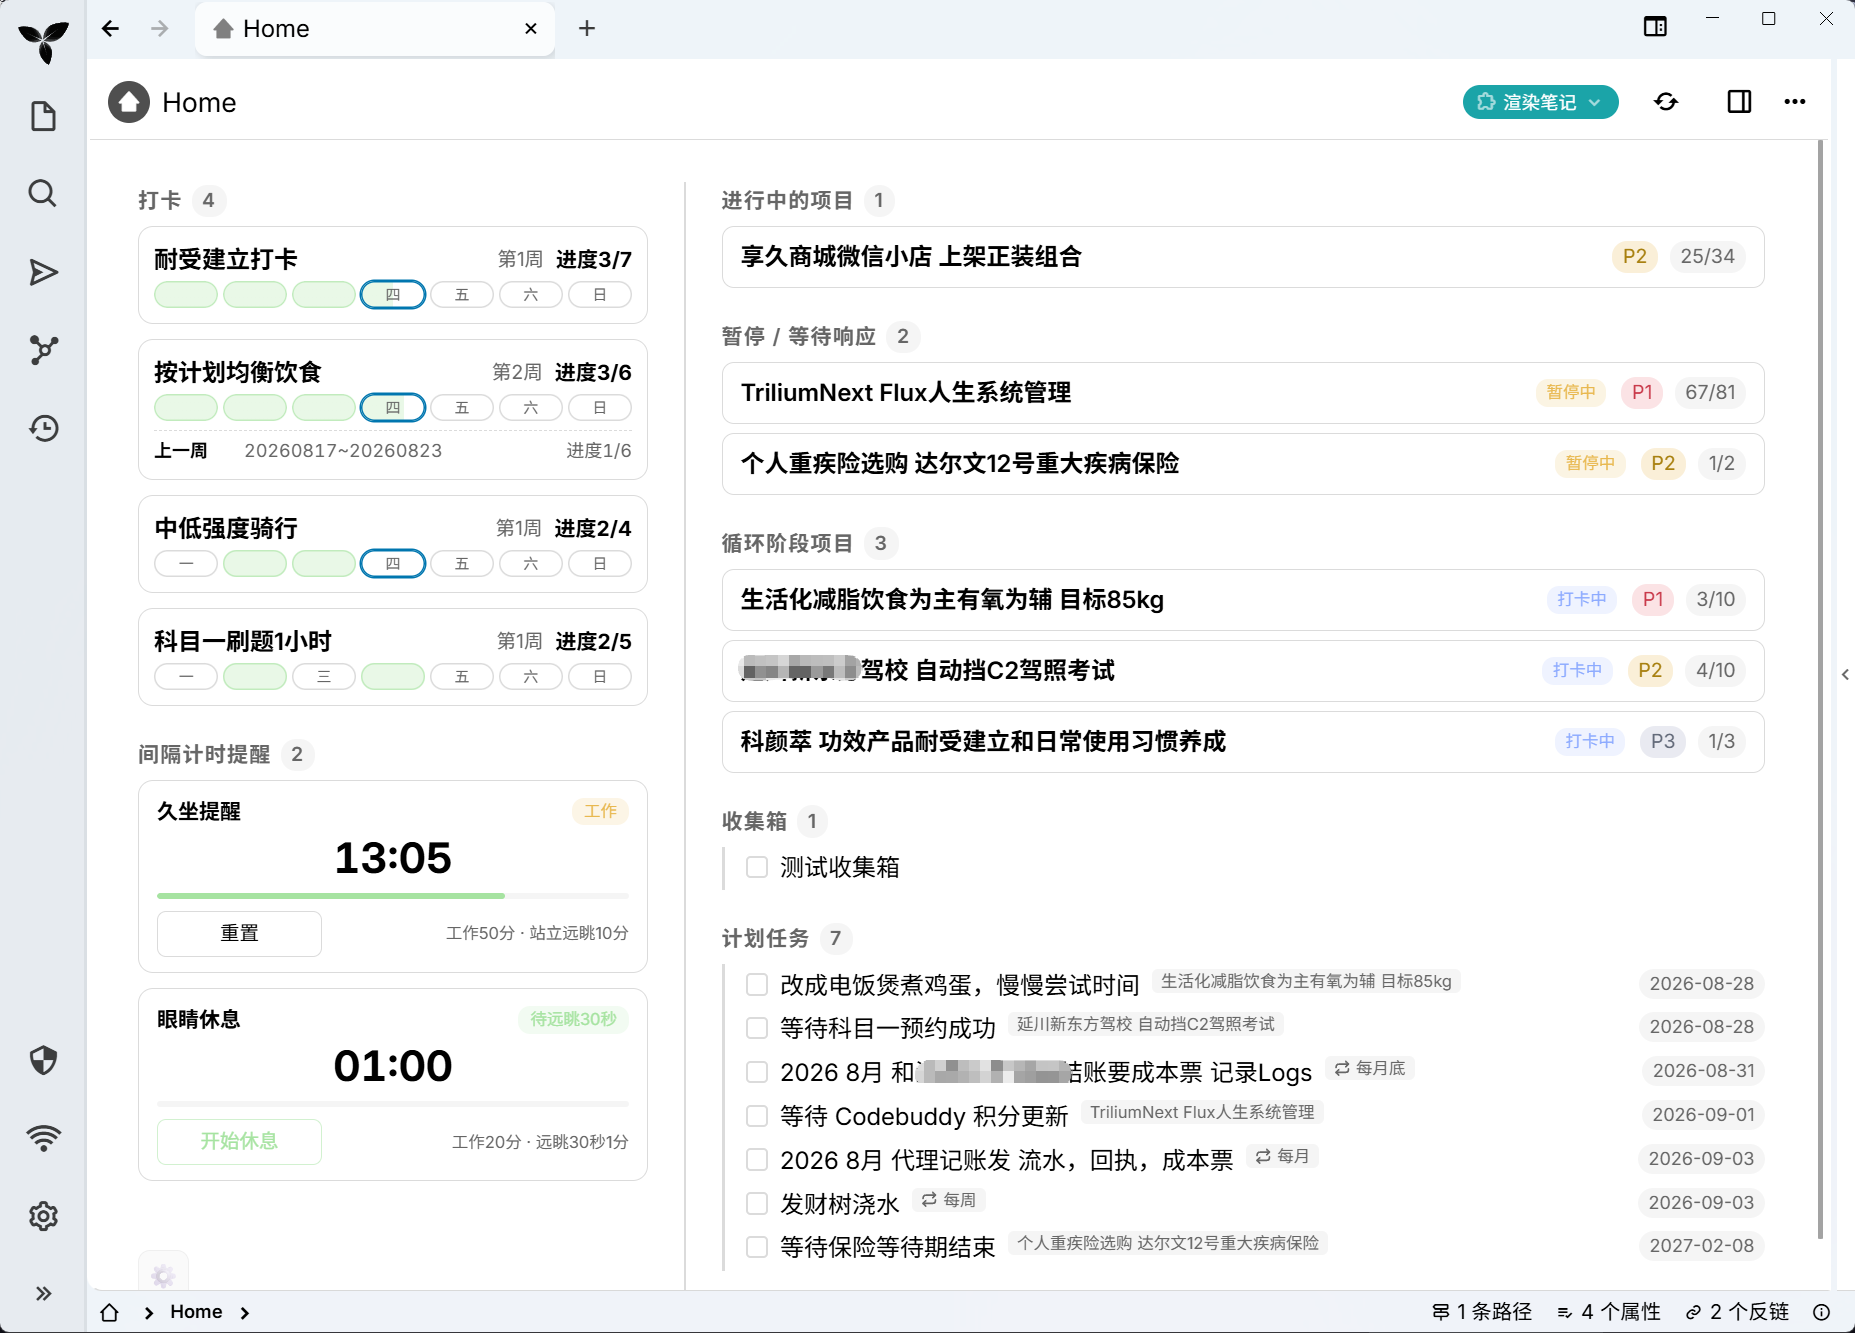
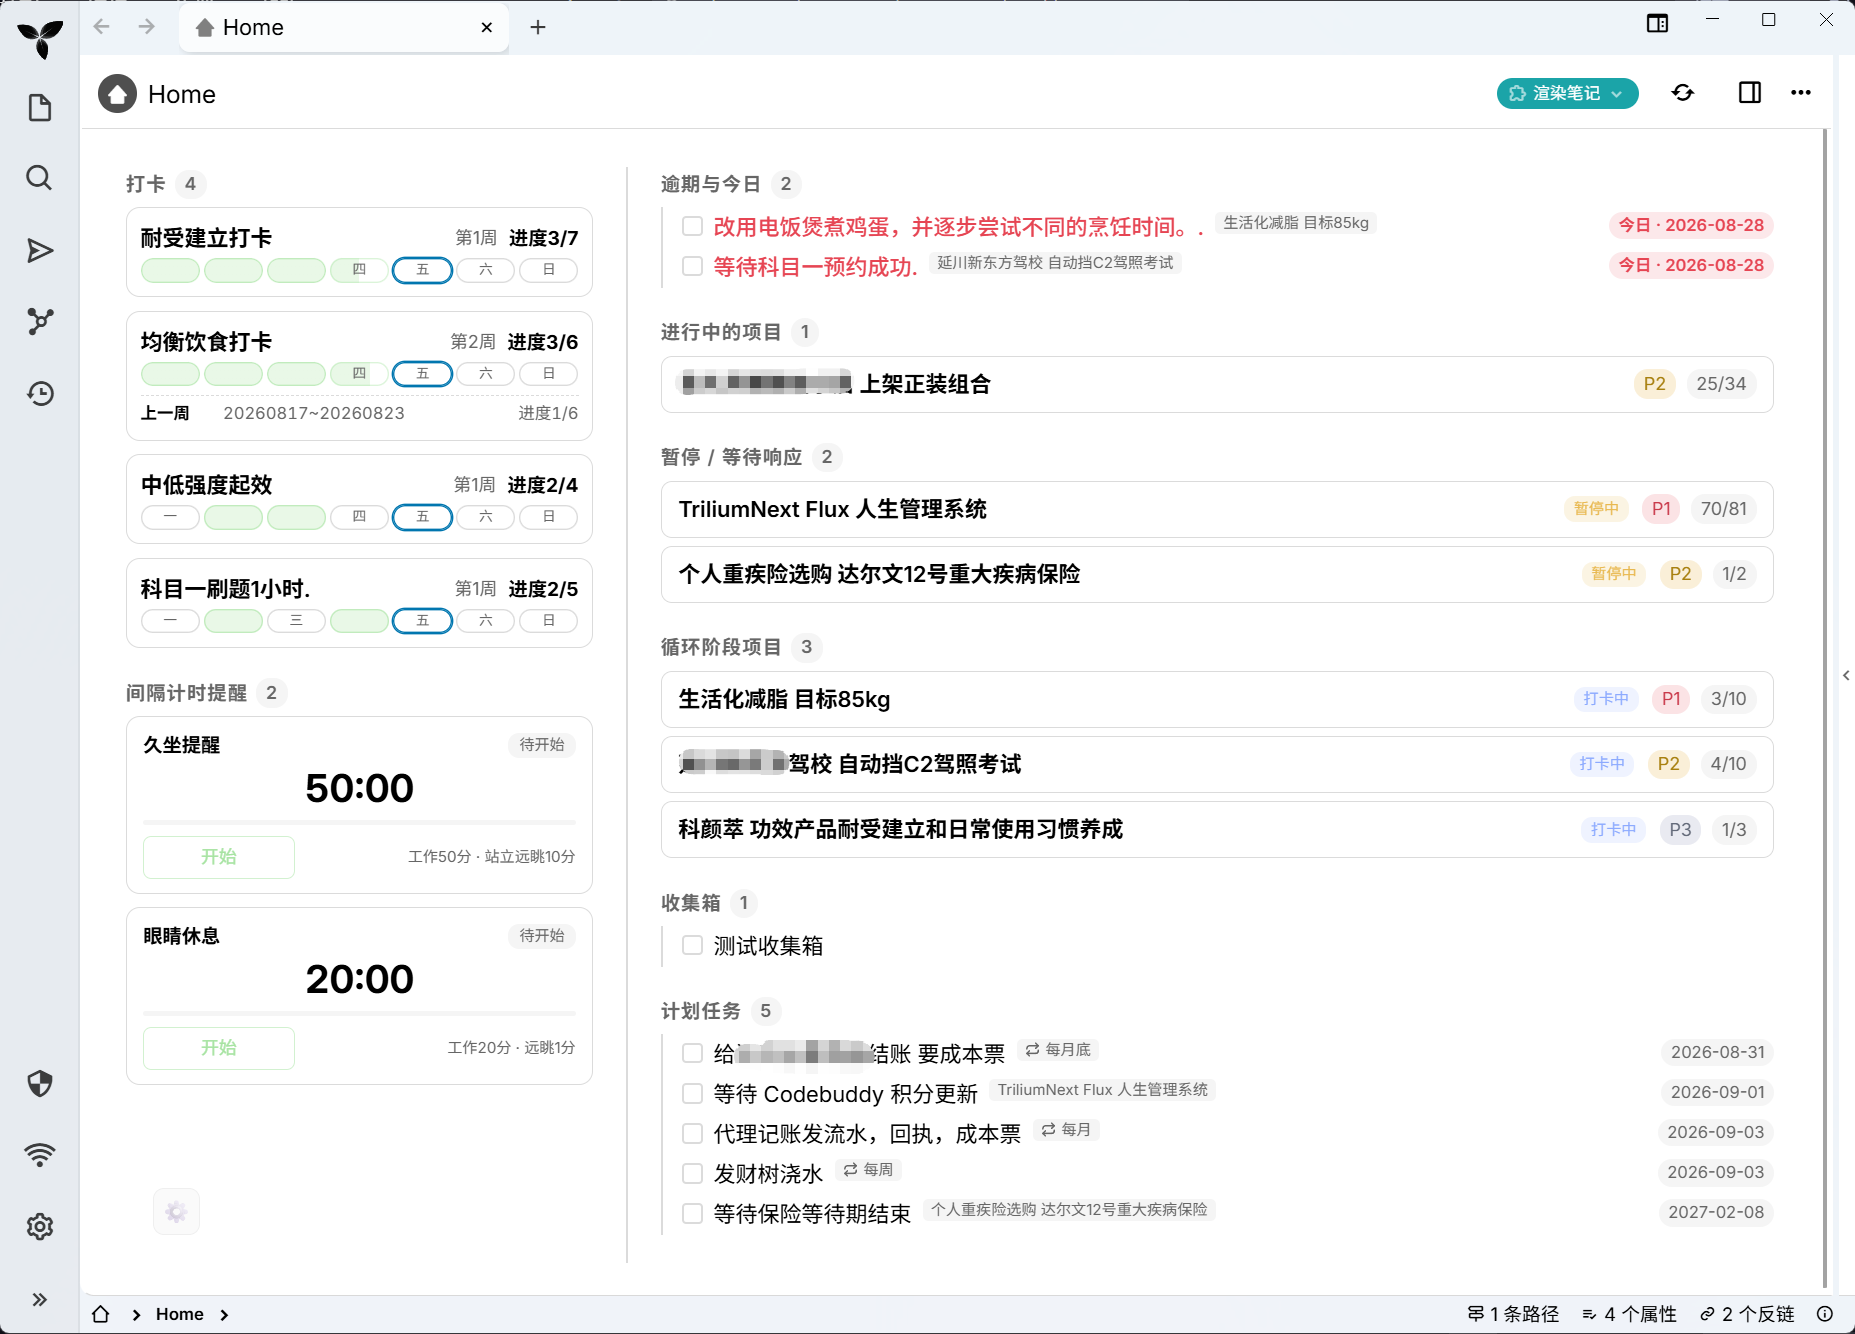
v1.0.0 正式版

diff --git a/styles.jsx b/styles.jsx
@@ -402,6 +402,7 @@ export const TASK_STYLES = `
        ============================================================ */
     .th-shell {
         position: relative;
+        min-height: 50px;
     }
     .th-gear {
         position: absolute;

diff --git a/README.zh.md b/README.zh.md
@@ -39,7 +39,7 @@ TriliumNext Flux 是一个运行在 [TriliumNext](https://github.com/TriliumNext
 1. 如之前未开启过`后端脚本执行`，需要在`设置`->`安全` 中开启
 
 2. **导入插件压缩包**：在 Trilium root目录，鼠标右键，导入到笔记，选择zip包，取消勾选安全导入
-   ![alt text](./docs/impoimportzipenrtzip.png)
+   ![alt text](./docs/importzip.png)
 
    导入图示
    ![alt text](./docs/importgraphic.png)
